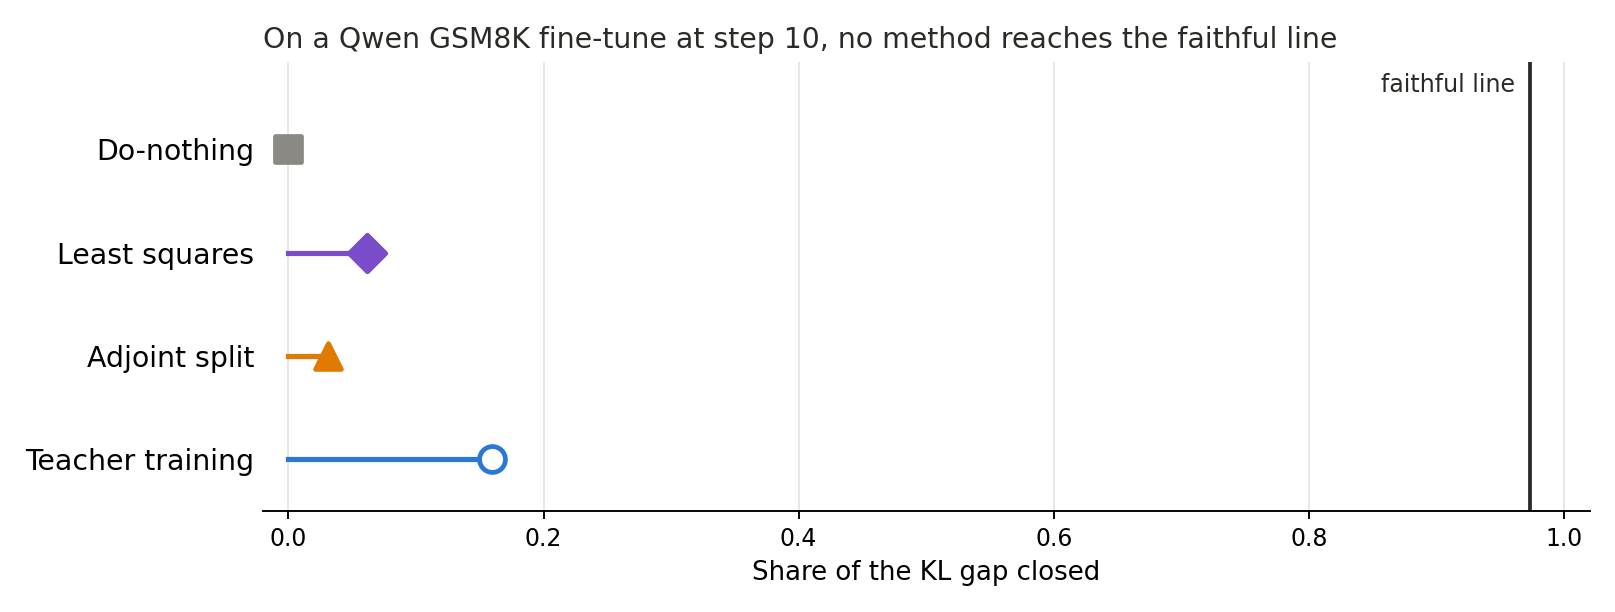
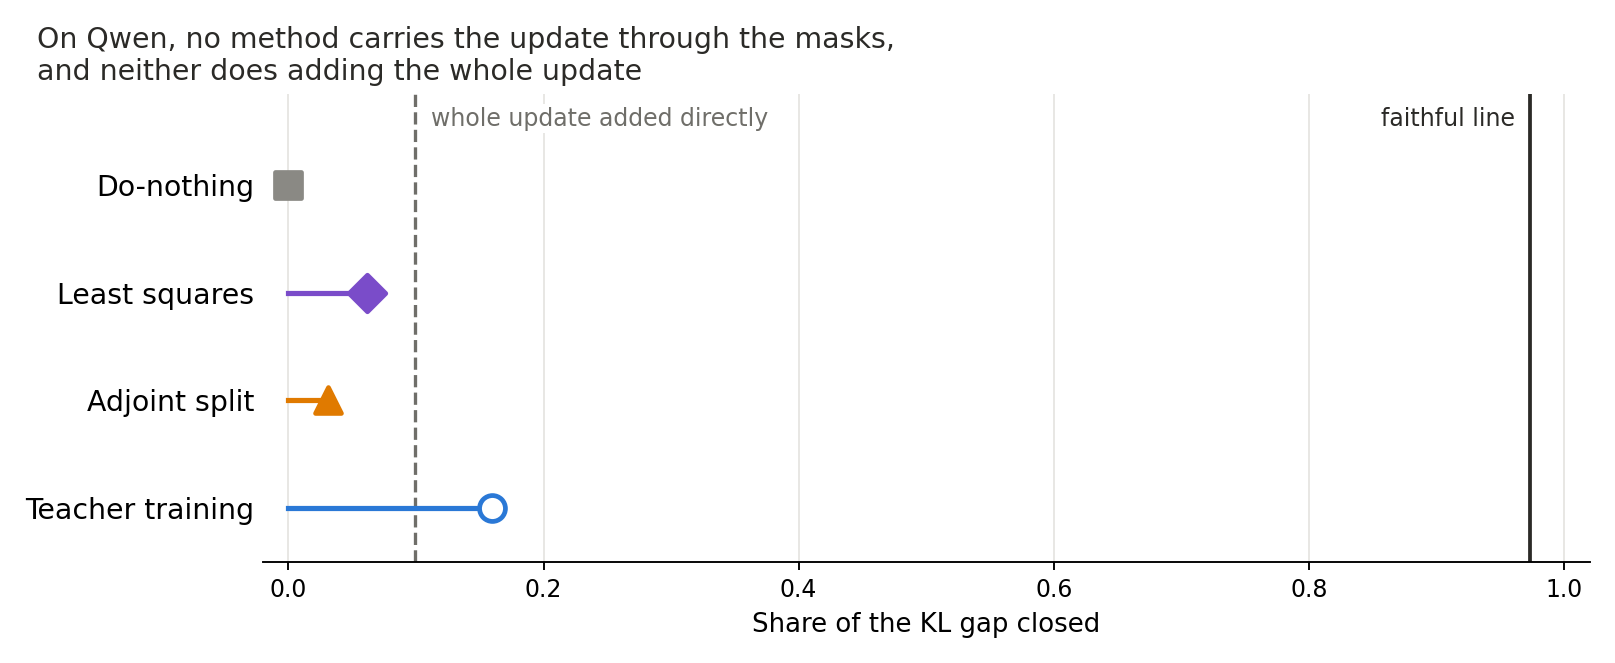
E68 clean figure: whole-update reference line and a title that says what it shows

diff --git a/experiments/qwen_pass_test/plot.py b/experiments/qwen_pass_test/plot.py
@@ -85,14 +85,18 @@ def gap_closed_clean() -> None:
     w0_read, w0_self = 1.3336, 0.0423  # E76's W0 on its own rows and masks, for the same share
     rows = (("Do-nothing", sc[u]["states"]["do_nothing"]["r2"], "#8a8984", "s"), ("Least squares", sc[u]["states"]["ls"]["r2"], "#7a4cc9", "D"),
             ("Adjoint split", sc[u]["states"]["adjoint"]["r2"], "#e07a00", "^"), ("Teacher training", (w0_read - teacher) / (w0_read - w0_self), "#2a78d6", "o"))
-    fig, ax = plt.subplots(figsize=(9.5, 3.6), dpi=170)
+    fig, ax = plt.subplots(figsize=(9.5, 3.9), dpi=170)
     for y, (name, v, col, mark) in enumerate(rows):
         hollow = name == "Teacher training"
         ax.plot([0, v], [y, y], color=col, lw=2.2, zorder=2)
         ax.scatter(v, y, marker=mark, s=120, facecolor="white" if hollow else col, edgecolor=col, linewidth=2, zorder=3)
     line = 1 - 0.5 * k0 / (kd - k0)  # the faithful line K <= 1.5 K0 on this share's axis
     ax.axvline(line, color=INK, lw=1.6, zorder=1)
-    ax.text(line - 0.012, -0.62, "faithful line", ha="right", va="center", fontsize=10, color=INK)
+    whole = load("amend1/score.json")[u]["r2_C"]  # a reference, not a method: the whole update added past the masks
+    ax.axvline(whole, color=MUTED, lw=1.4, ls="--", zorder=1)
+    ax.text(whole + 0.012, -0.62, "whole update added directly", ha="left", va="center", fontsize=10, color=MUTED,
+            bbox={"fc": "white", "ec": "none", "pad": 1})
+    ax.text(line - 0.012, -0.62, "faithful line", ha="right", va="center", fontsize=10, color=INK, bbox={"fc": "white", "ec": "none", "pad": 1})
     ax.set_yticks(range(len(rows)), [r[0] for r in rows], fontsize=12)
     ax.set_ylim(len(rows) - 0.5, -0.85)
     ax.set_xlim(-0.02, 1.02)
@@ -101,7 +105,7 @@ def gap_closed_clean() -> None:
     ax.tick_params(axis="y", length=0)
     ax.grid(axis="x", color=GRID, lw=0.7)
     ax.set_axisbelow(True)
-    ax.set_title("On a Qwen GSM8K fine-tune at step 10, no method reaches the faithful line", fontsize=12, color=INK, loc="left")
+    ax.set_title("On Qwen, no method carries the update through the masks,\nand neither does adding the whole update", fontsize=12, color=INK, loc="left", x=-0.17)
     fig.tight_layout()
     fig.savefig(FIG / "gap_closed_clean.png")
     plt.close(fig)
